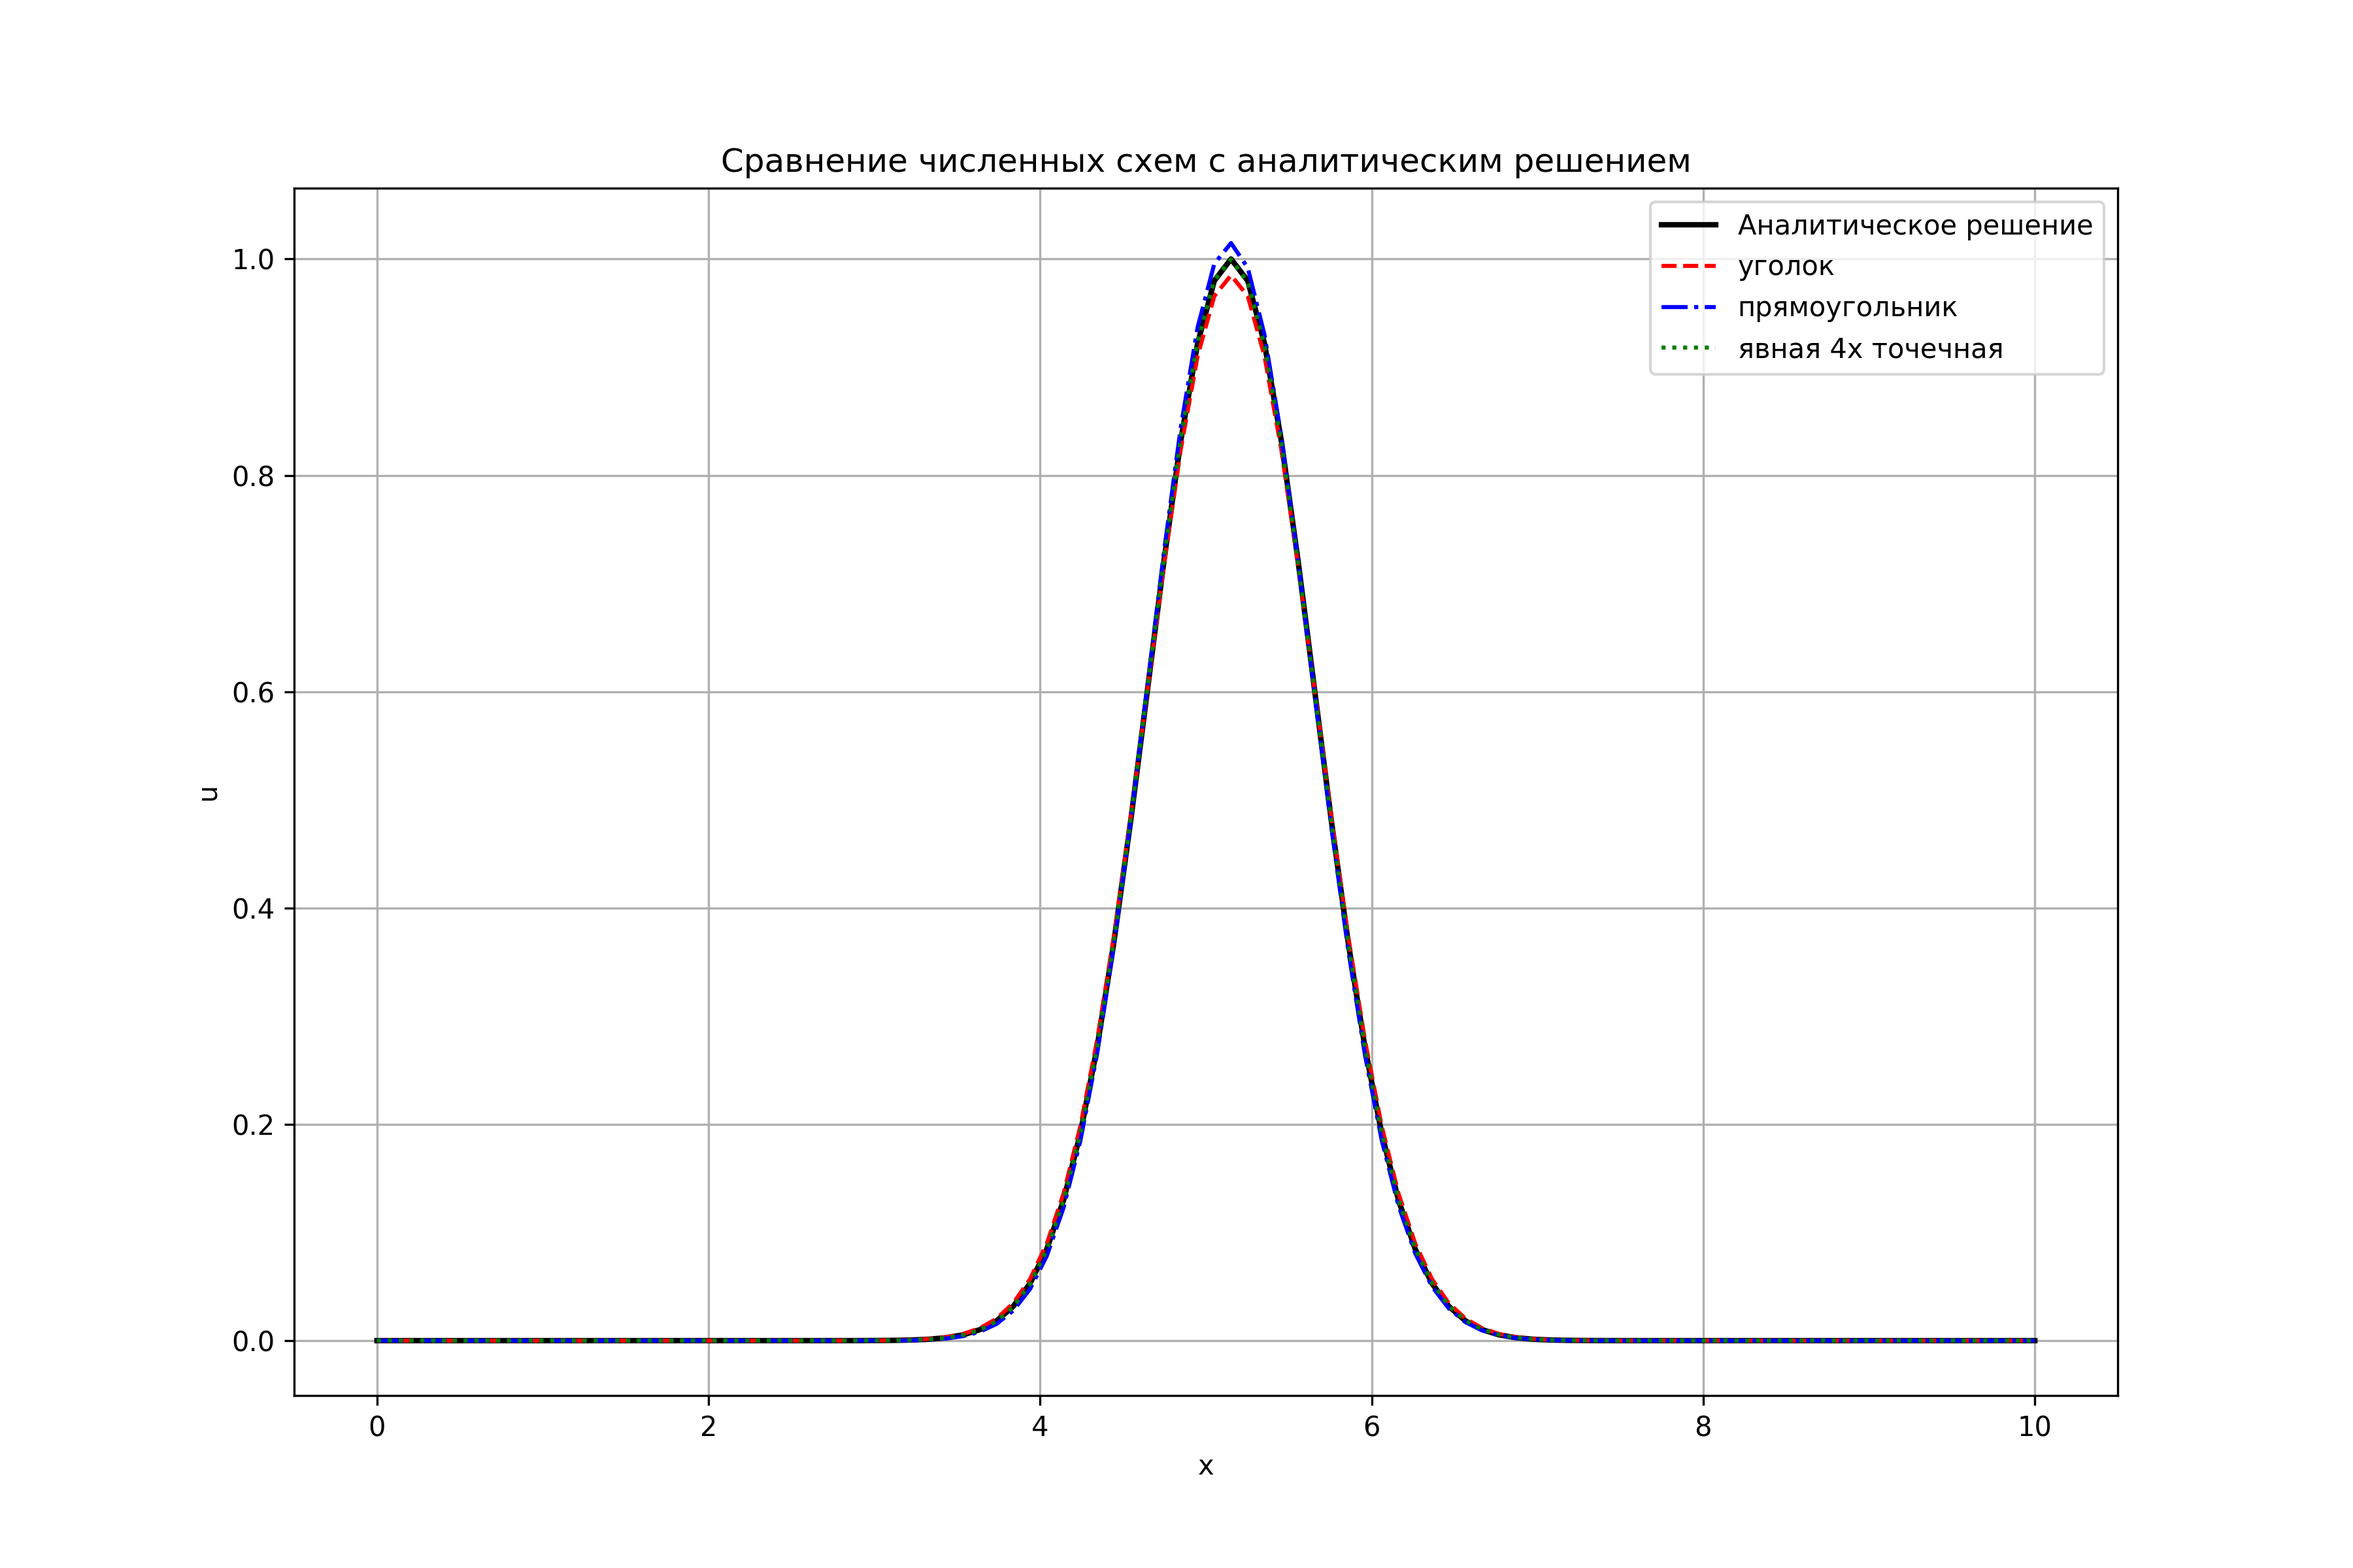
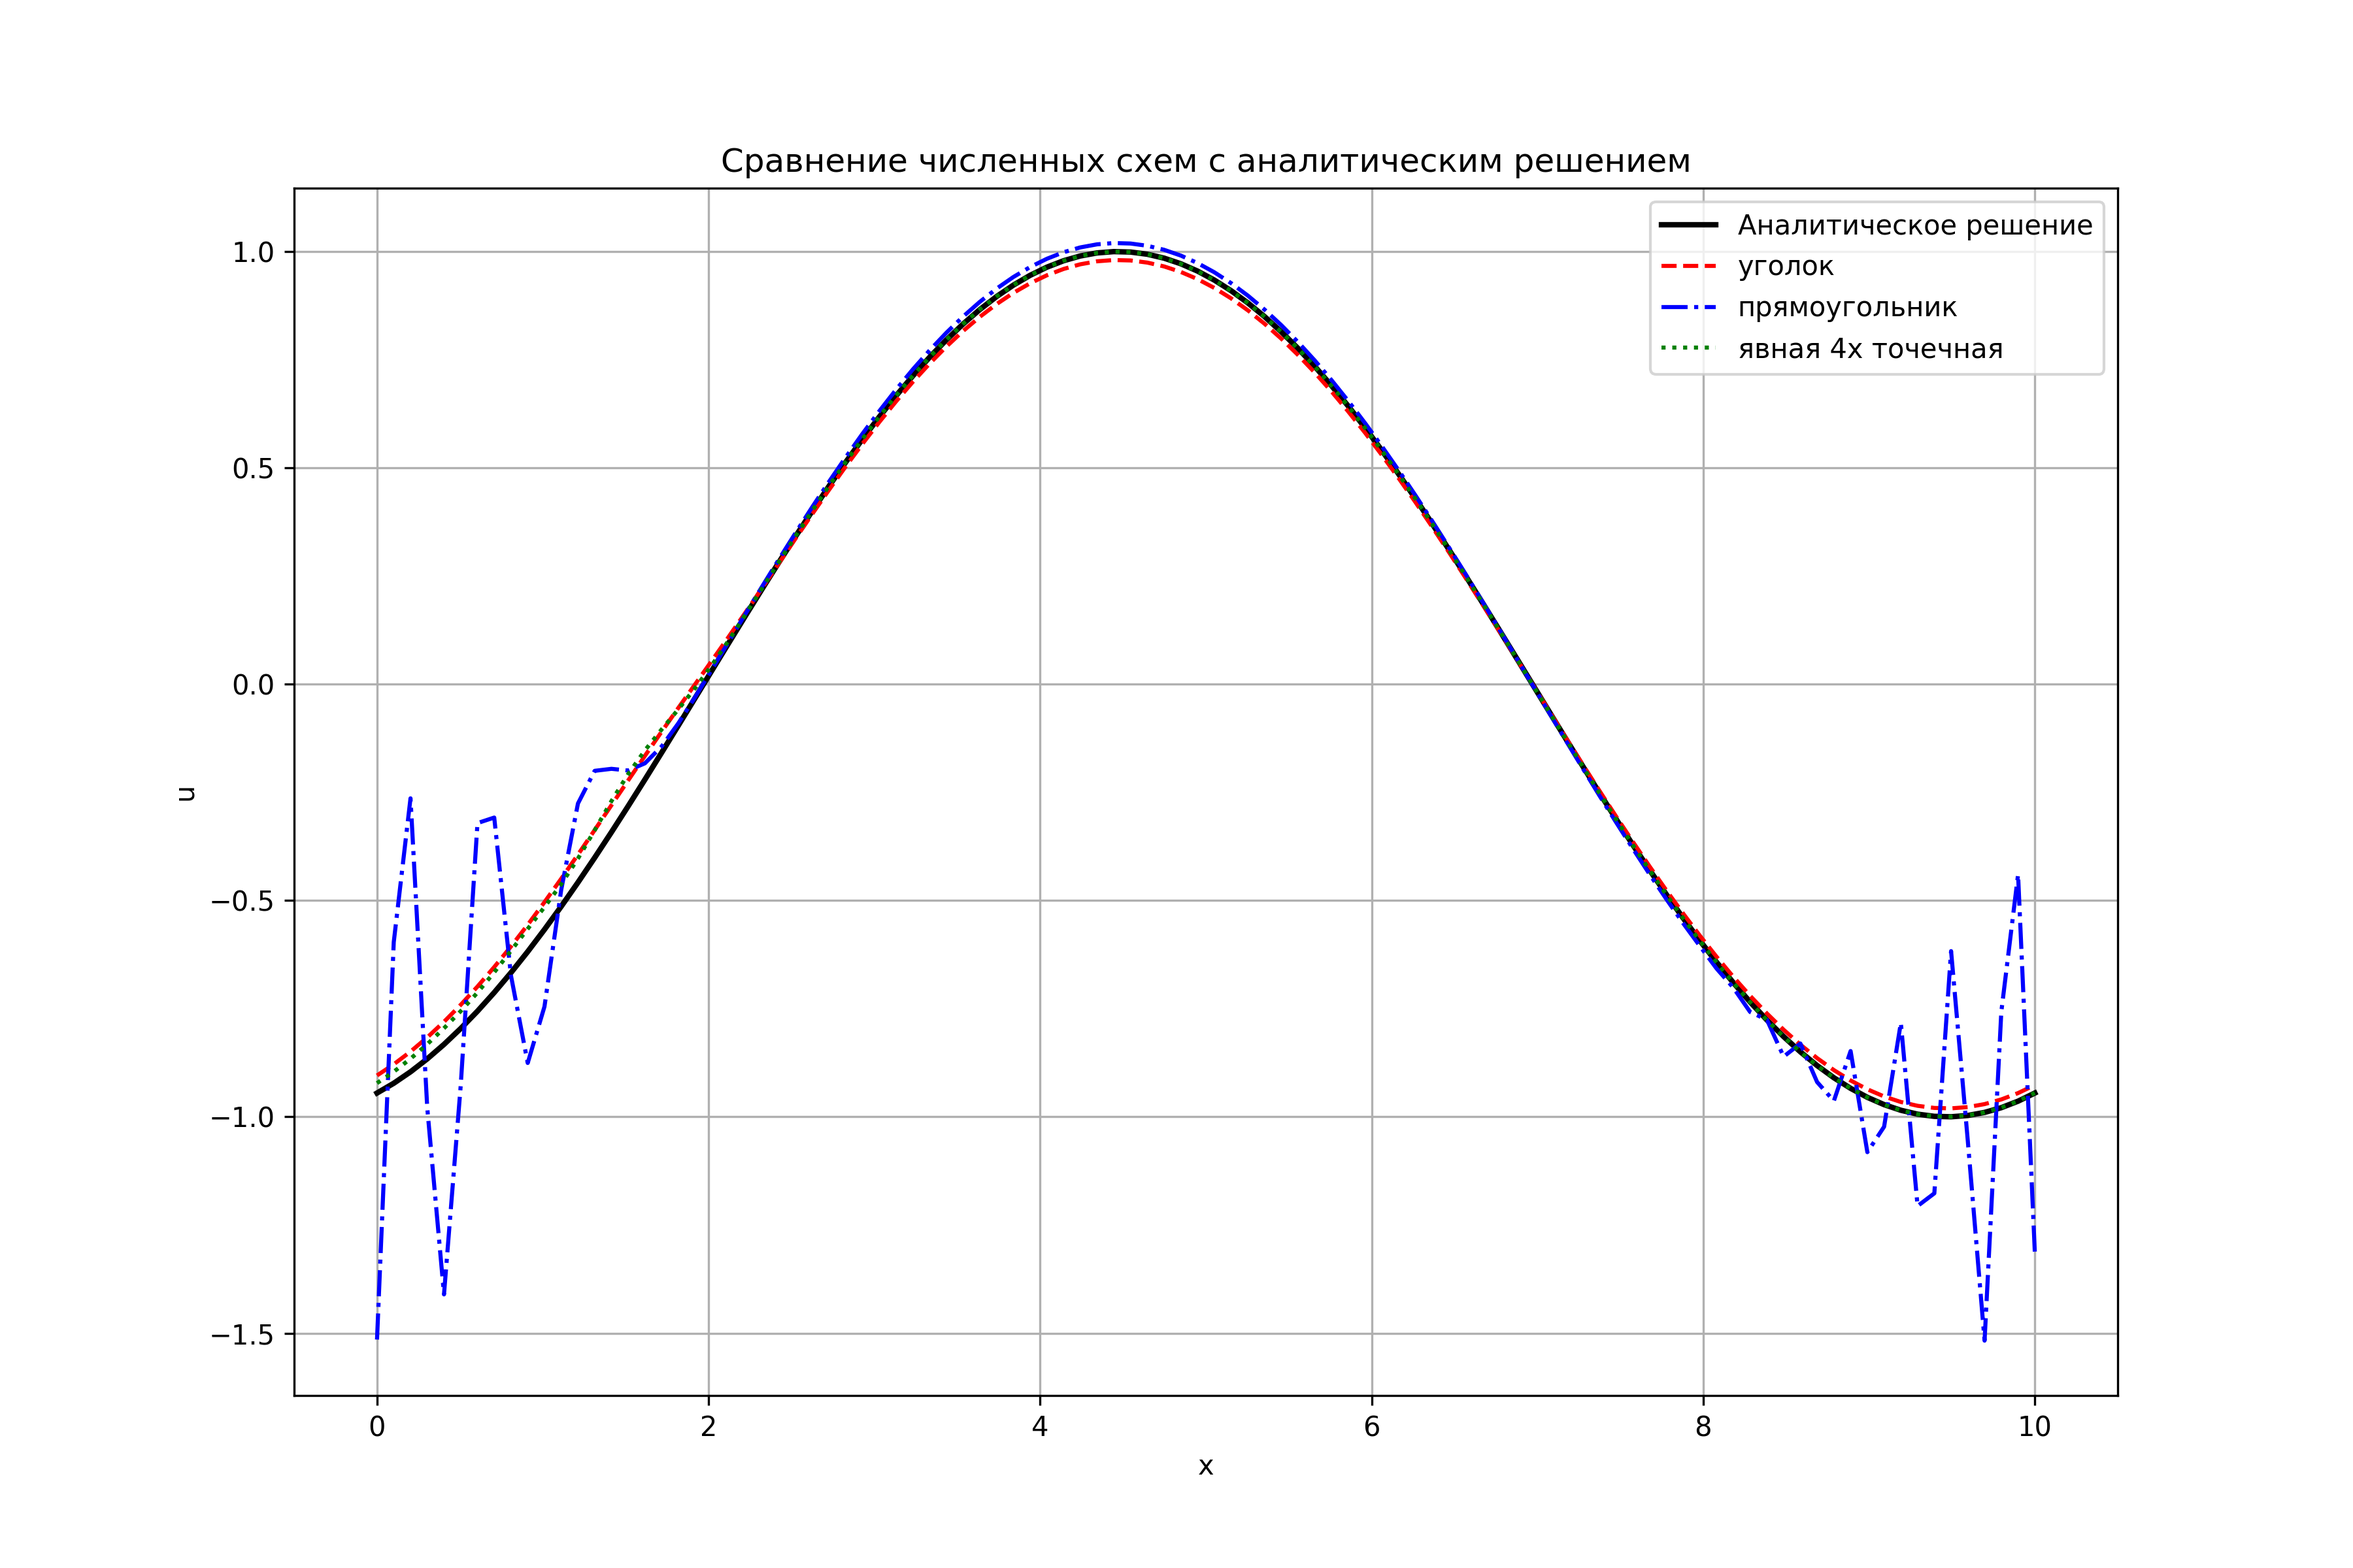
impr lab_5

diff --git a/spring_term/lab_5/must_have.py b/spring_term/lab_5/must_have.py
@@ -9,14 +9,14 @@ from matplotlib.animation import FuncAnimation
 ##
 
 L = 10.0      
-T = 0.2       
+T = 2.0  
 c = 1.0      
 
-def analytical_solution(x, t):
-    return np.exp(-0.5 * ((x - c * t - L/2) / 0.5)**2)
-
 def initial_condition(x):
-    return analytical_solution(x, 0)
+    return np.sin(2 * np.pi * x / L)
+
+def analytical_solution(x, t):
+    return initial_condition((x - c * t) % L) 
 
 def upwind_scheme(u, c, tau, h):
     u_new = u.copy()
@@ -47,7 +47,7 @@ def lax_wendroff_scheme(u, c, tau, h):
 
 Nx = 100    
 h = L / (Nx - 1) 
-CFL = 0.5      
+CFL = 0.5     
 tau = CFL * h / c 
 Nt = int(T / tau) 
 
@@ -92,7 +92,7 @@ plt.grid()
 plt.savefig('comparison.png', dpi=300)
 plt.close()
 
-Nx_list = [20, 40, 120, 140, 200, 400, 450, 500, 600] 
+Nx_list = [50, 100, 200, 400, 800, 1600]
 errors_upwind = []
 errors_ftcs = []
 errors_lw = []
@@ -102,25 +102,30 @@ for Nx in Nx_list:
     tau = CFL * h / c
     Nt = int(T / tau)
     
-    x = np.linspace(0, L, Nx)
+    x = np.linspace(0, L, Nx, endpoint=False)
     u_analytical = analytical_solution(x, T)
     
     u_upwind = initial_condition(x)
     for n in range(Nt):
         u_upwind = upwind_scheme(u_upwind, c, tau, h)
-    error = np.linalg.norm(u_upwind - u_analytical) / np.sqrt(Nx)
+    error = np.sqrt(np.sum((u_upwind - u_analytical)**2) * h)
+
+
     errors_upwind.append(error)
     
     u_ftcs = initial_condition(x)
     for n in range(Nt):
         u_ftcs = ftcs_scheme(u_ftcs, c, tau, h)
-    error = np.linalg.norm(u_ftcs - u_analytical) / np.sqrt(Nx)
+    error = np.sqrt(np.sum((u_ftcs - u_analytical)**2) * h)
+
+
     errors_ftcs.append(error)
     
     u_lw = initial_condition(x)
     for n in range(Nt):
         u_lw = lax_wendroff_scheme(u_lw, c, tau, h)
-    error = np.linalg.norm(u_lw - u_analytical) / np.sqrt(Nx)
+    error = np.sqrt(np.sum((u_lw - u_analytical)**2) * h)
+
     errors_lw.append(error)
 
 h_list = [L / (Nx - 1) for Nx in Nx_list]
